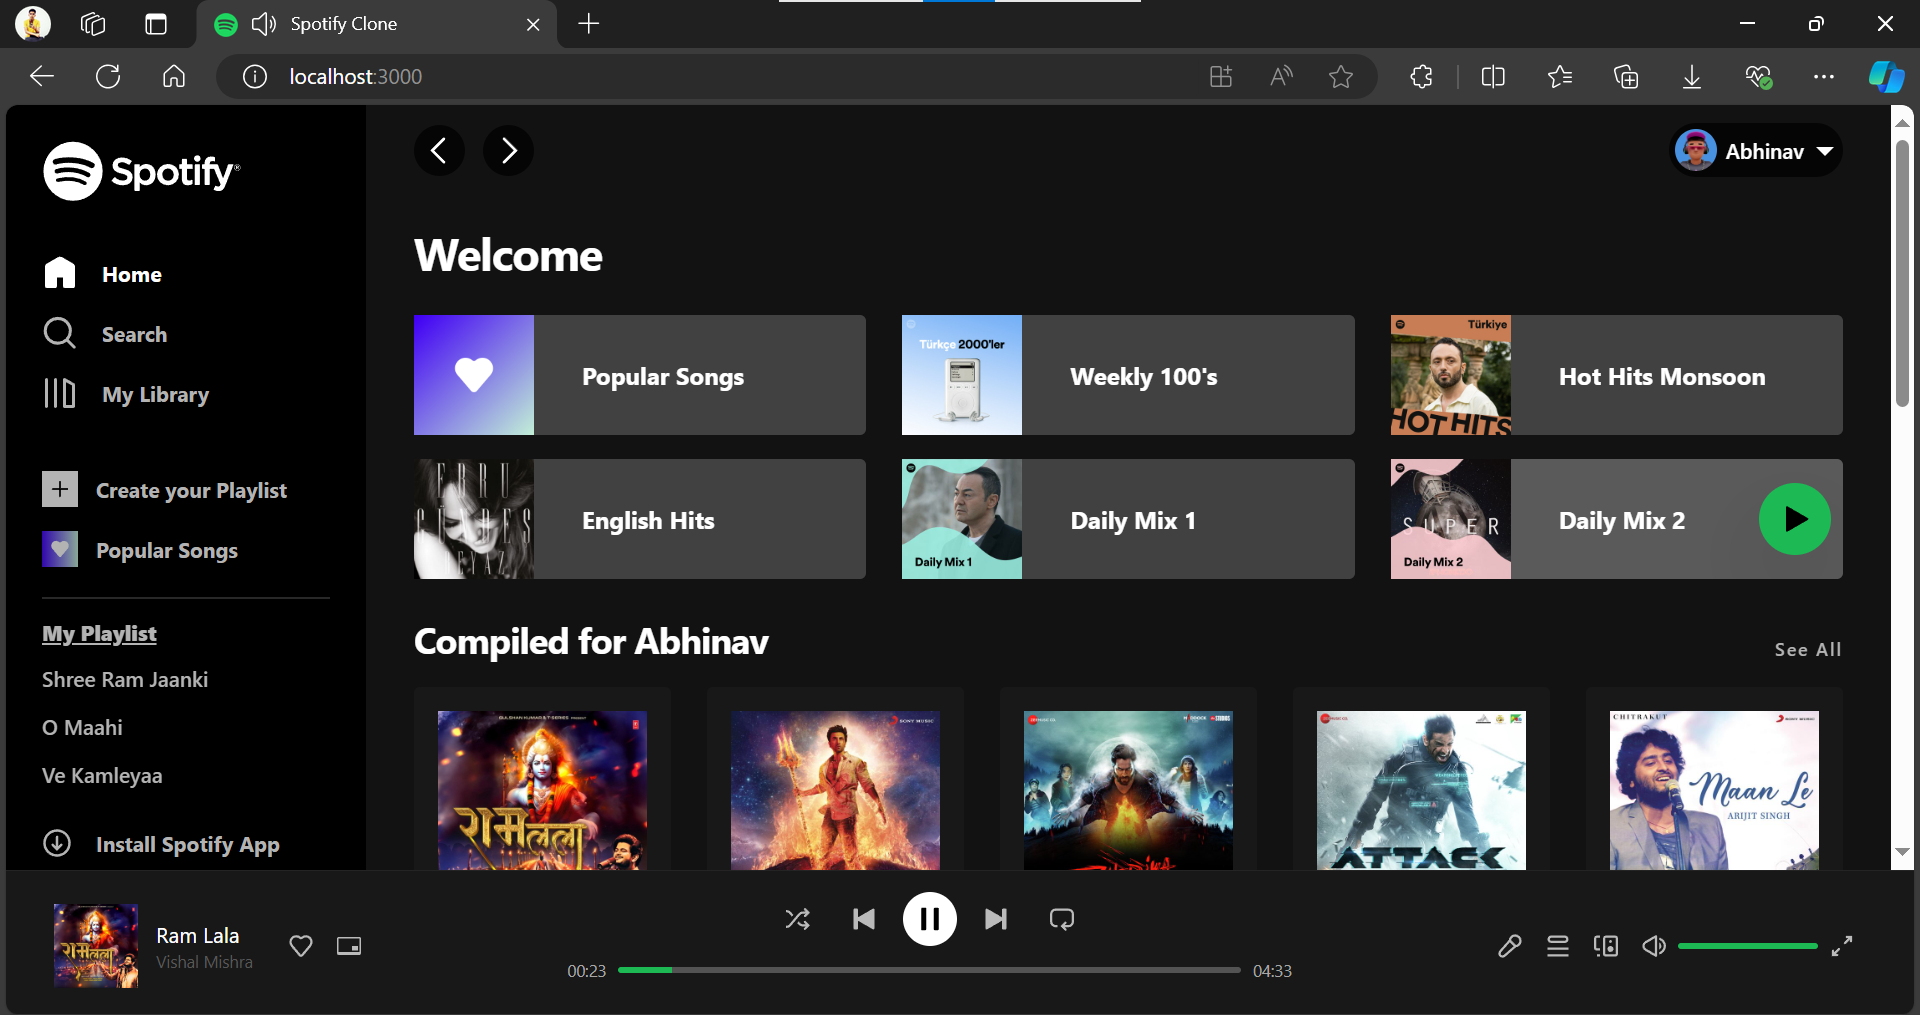
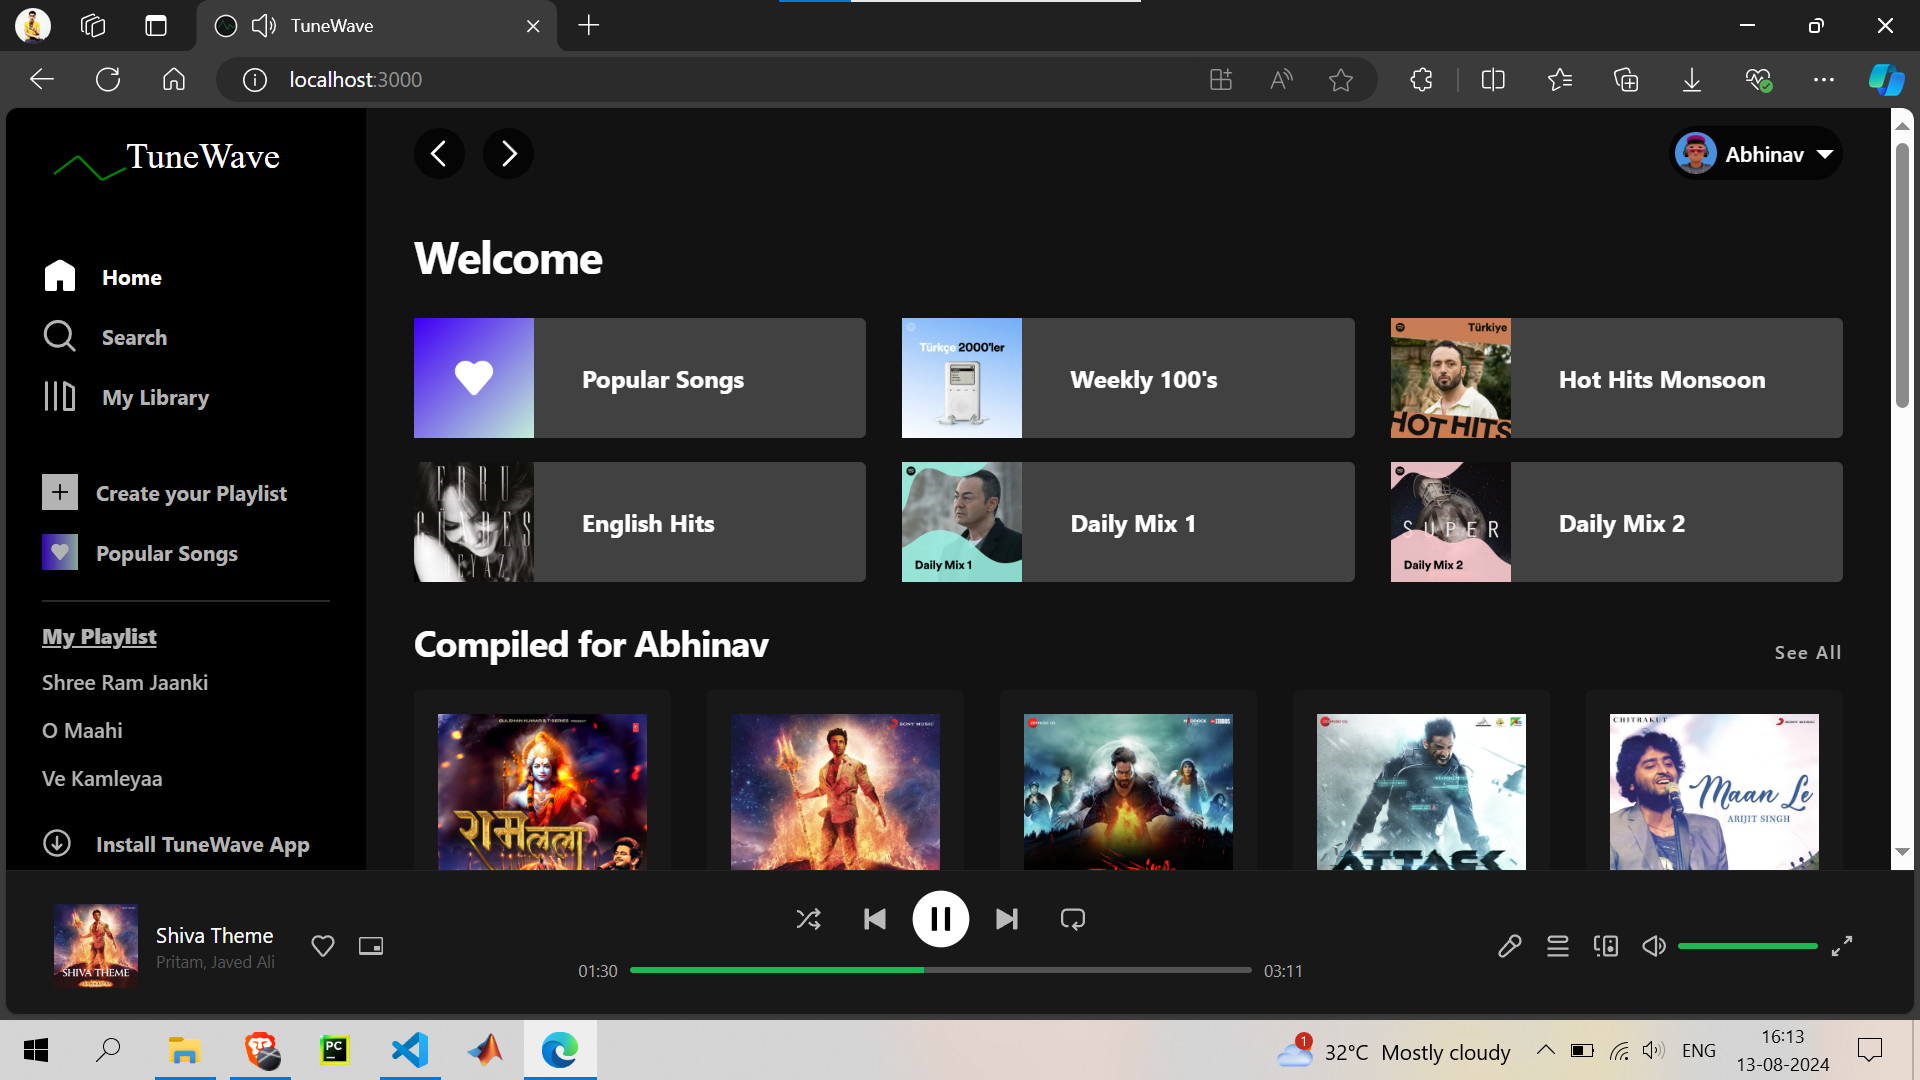
name changes

diff --git a/public/index.html b/public/index.html
@@ -2,7 +2,7 @@
 <html lang="en">
   <head>
     <meta charset="utf-8" />
-    <link rel="icon" href="%PUBLIC_URL%/favicon.ico" />
+    <link rel="icon" href="%PUBLIC_URL%/tuneWave.ico" />
     <meta name="viewport" content="width=device-width, initial-scale=1" />
     <meta name="theme-color" content="#000000" />
     <meta
@@ -24,7 +24,7 @@
       work correctly both with client-side routing and a non-root public URL.
       Learn how to configure a non-root public URL by running `npm run build`.
     -->
-    <title>Spotify 2.0 Clone</title>
+    <title>TuneWave</title>
   </head>
   <body>
     <noscript>You need to enable JavaScript to run this app.</noscript>

diff --git a/src/components/Header/DownloadApp.js b/src/components/Header/DownloadApp.js
@@ -7,7 +7,7 @@ export default function DownloadApp() {
       <div>
           <a className='flex gap-x-4 py-2 text-link hover:text-white transition-colors items-center' href="#">
           <span><Icon name="menudownload" /></span>
-          <span className='text-sm font-bold'>Install Spotify App</span>
+          <span className='text-sm font-bold'>Install TuneWave App</span>
           </a>
       </div>
   )

diff --git a/README.md b/README.md
@@ -4,10 +4,10 @@
 <br />
 <div align="center">
   <a>
-    <img src="https://storage.googleapis.com/pr-newsroom-wp/1/2018/11/Spotify_Logo_CMYK_Green.png" alt="spotify-logo" width="220" height="70">
+    <img src="pfp.png" alt="spotify-logo" width="220" height="70">
   </a>
 
-  <h3 align="center">Spotify Clone</h3>
+  <h3 align="center">TuneWave</h3>
 </div>
 
 <!-- TABLE OF CONTENTS -->
@@ -36,7 +36,7 @@
 
 ## About The Project
 
-![Spotify Clone Screenshot](ss.png)
+![TuneWave Screenshot](ss.png)
 
 <p align="right">(<a href="#top">back to top</a>)</p>
 
